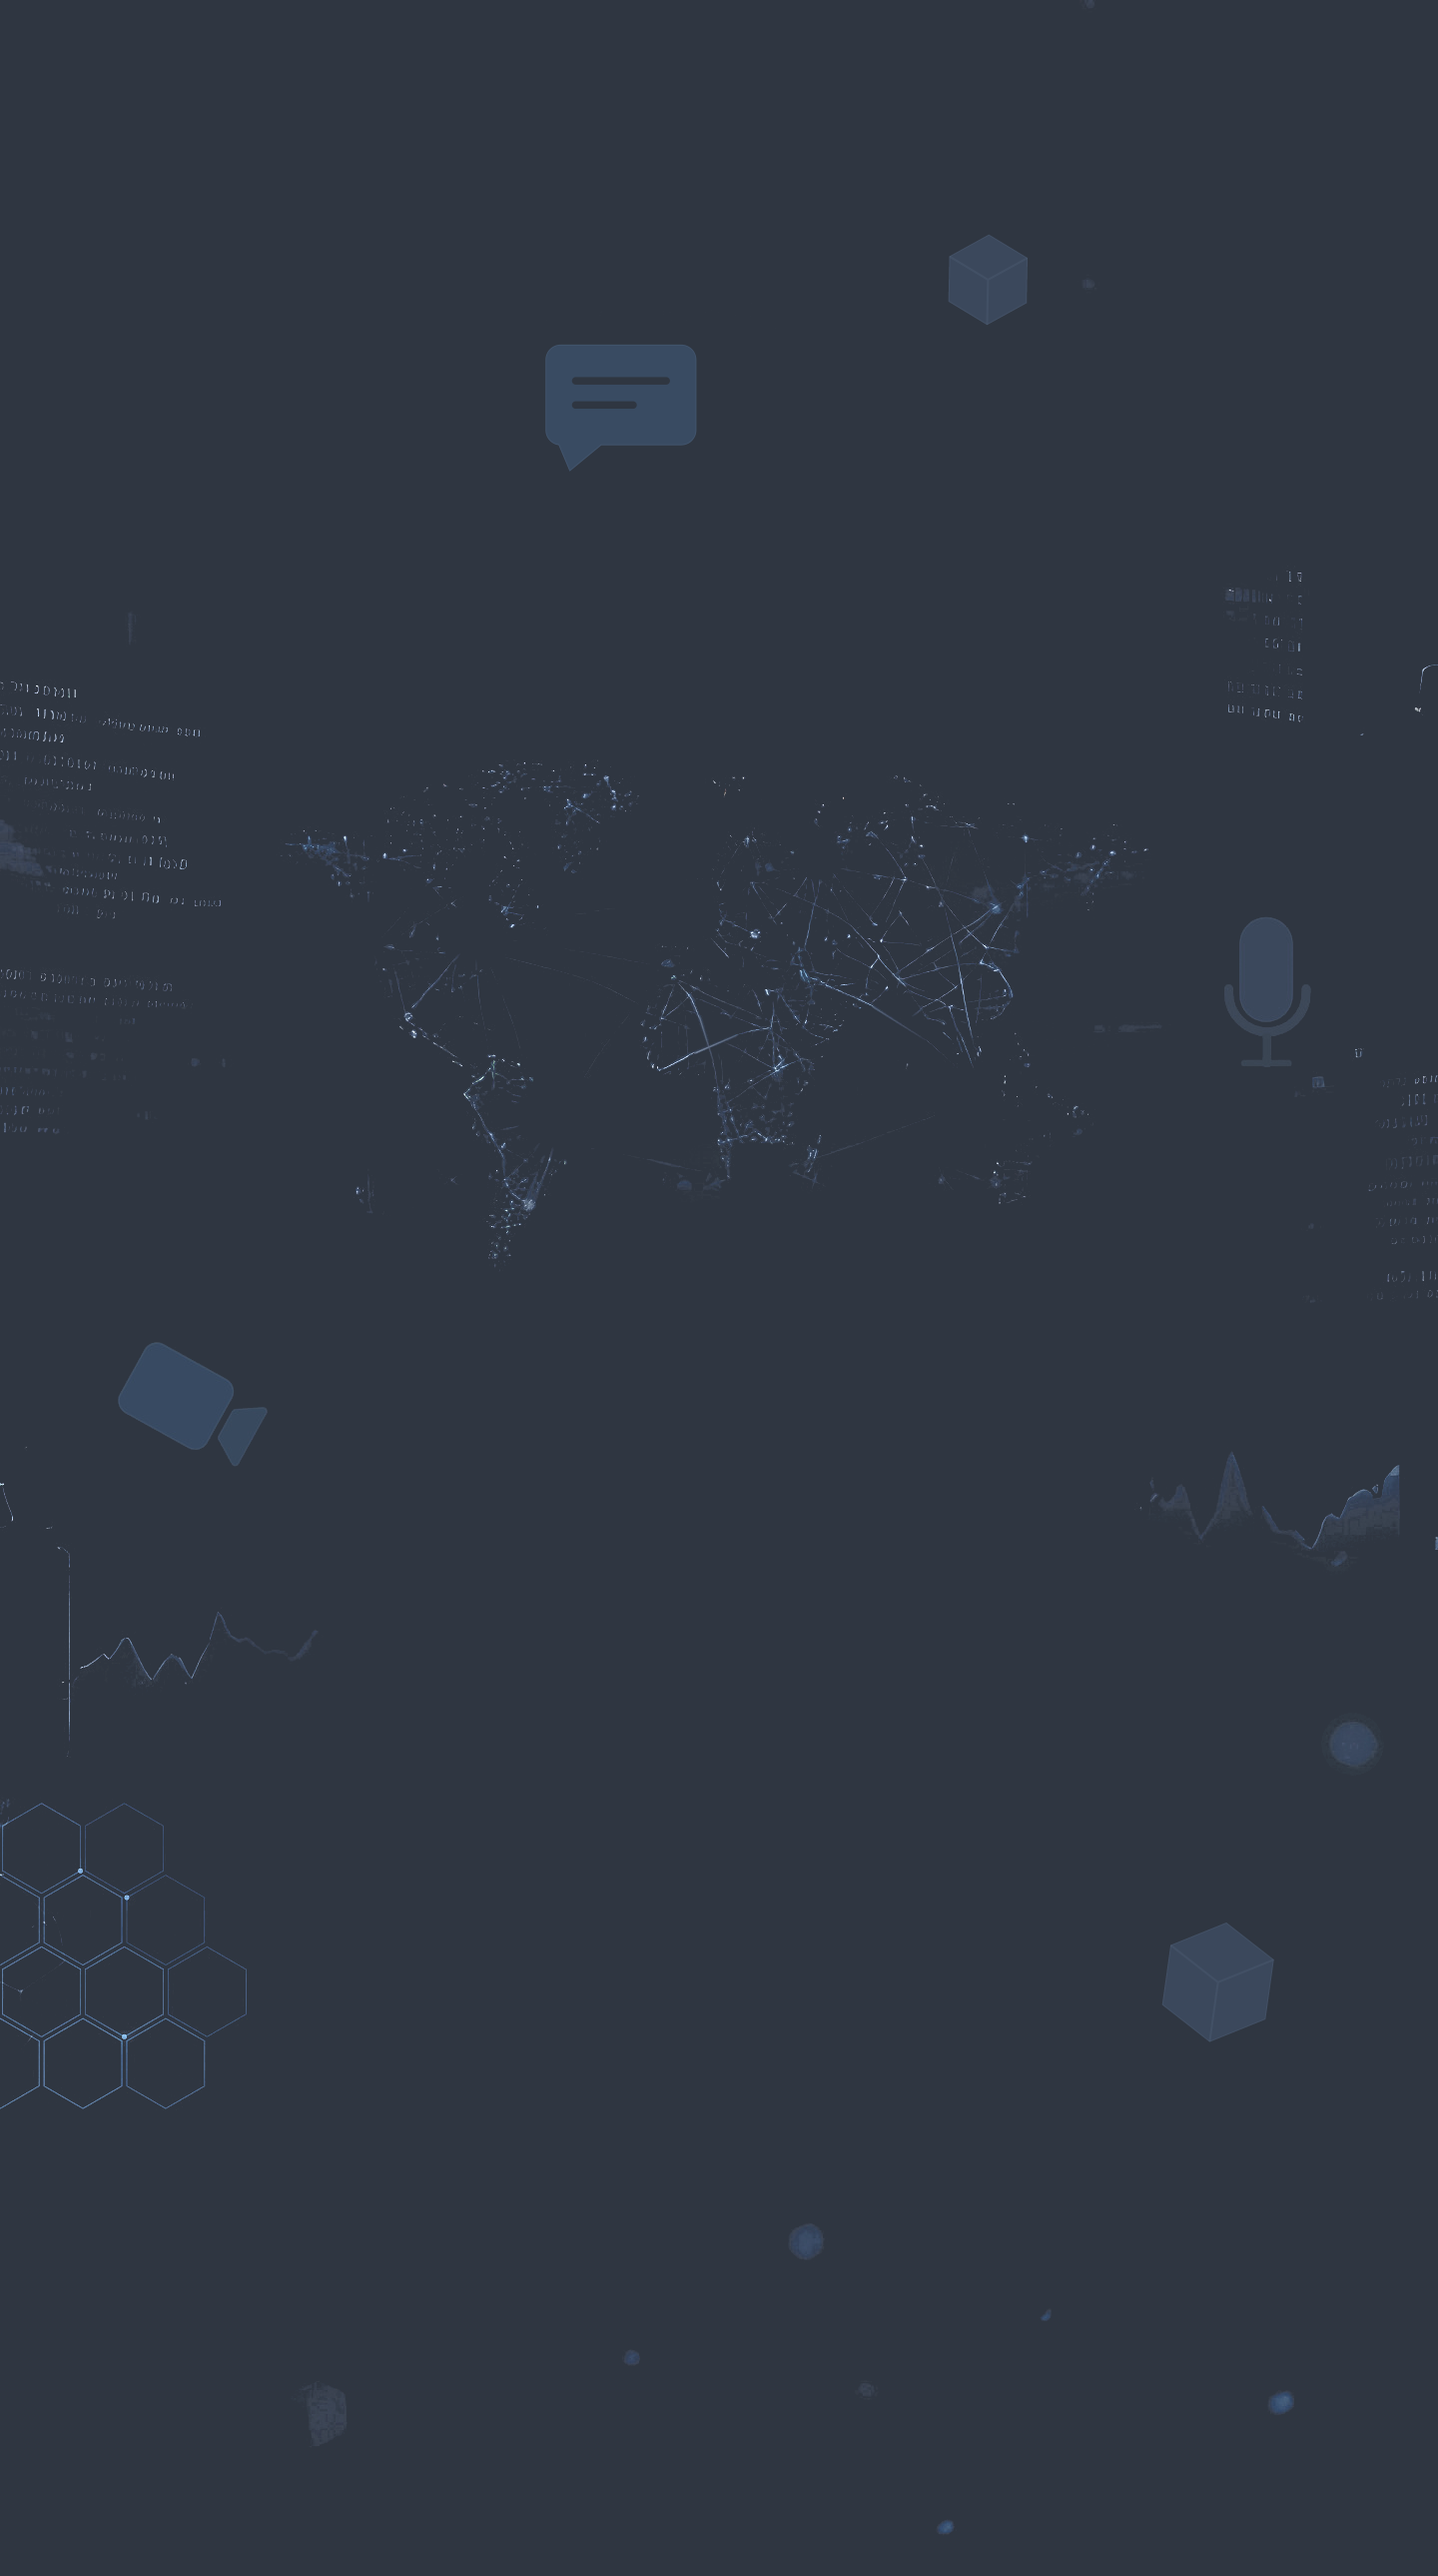
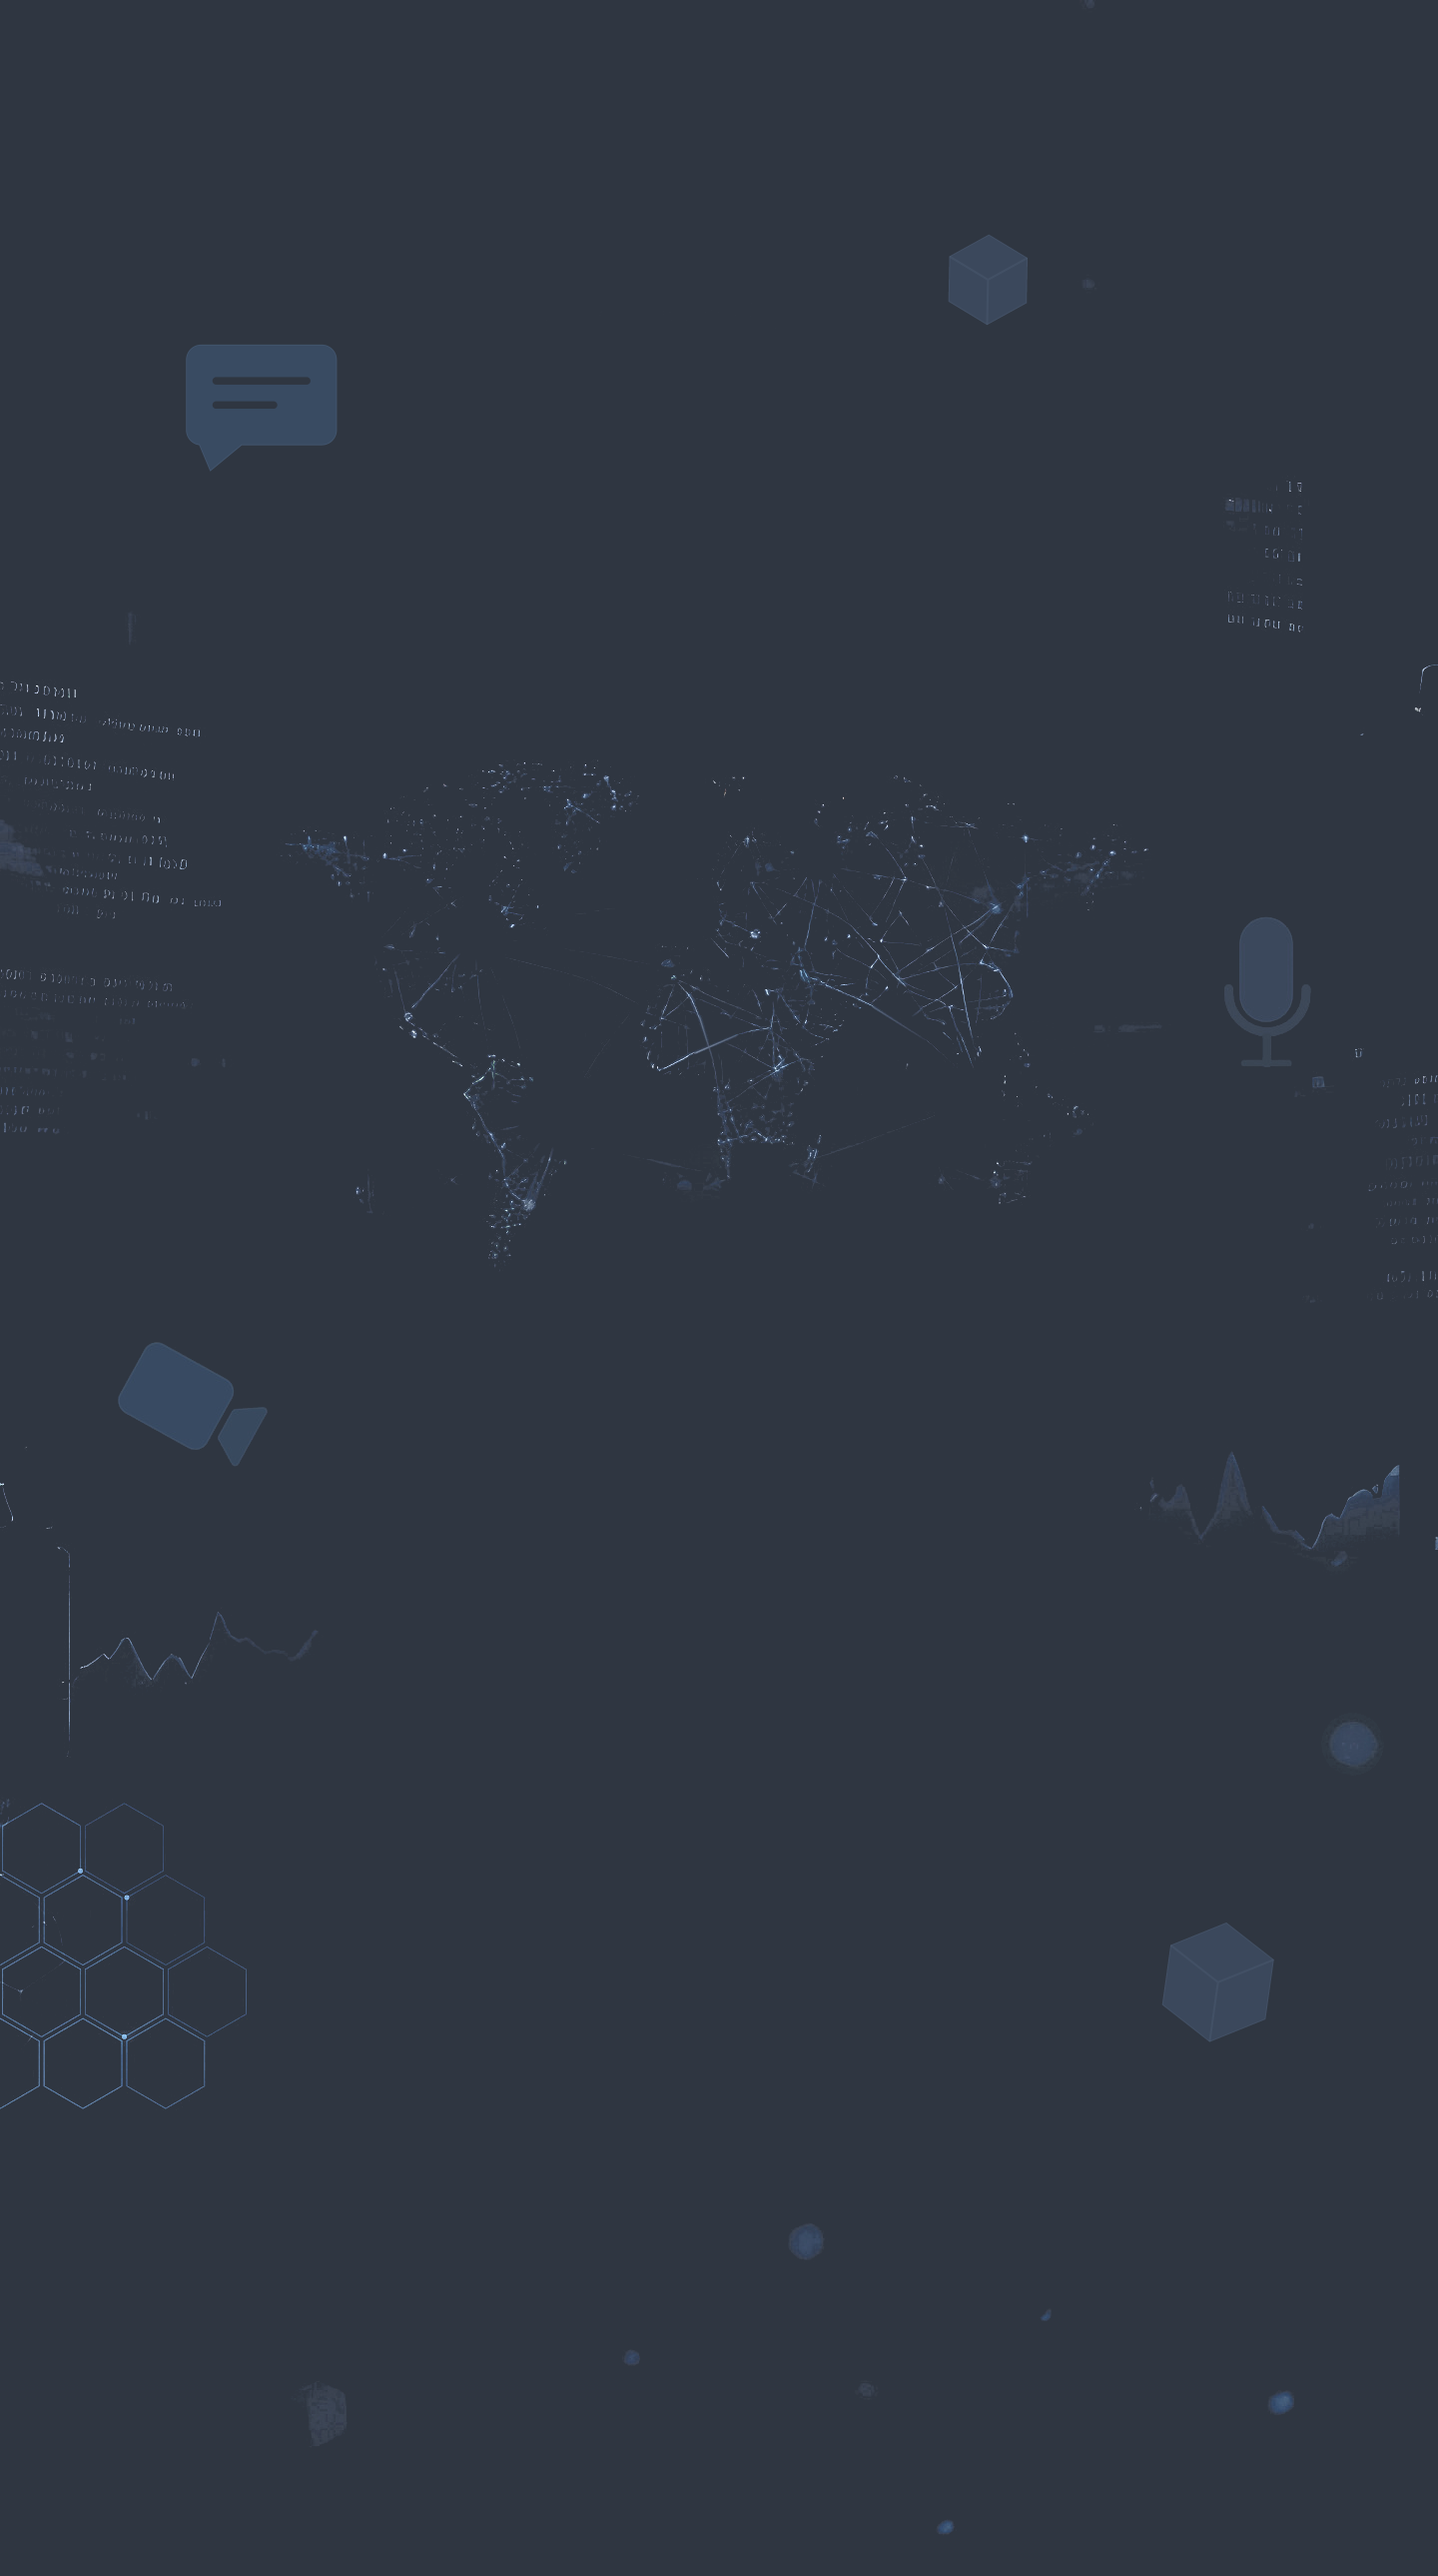
chore(android): bump build to 209 with home and chat refinements

Changed region(s): [[0.375, 0.1241, 0.5, 0.1862], [0.125, 0.1241, 0.25, 0.1862]]

diff --git a/frontend/screens/chat/useChatComposer.ts b/frontend/screens/chat/useChatComposer.ts
@@ -2,8 +2,7 @@ import type { ChatMessage } from './chatMessageTypes';
 /** Text/sticker composer send + emoji panel helpers. */
 
 import React from "react";
-import { Keyboard, Vibration } from "react-native";
-import * as Haptics from "expo-haptics";
+import { Keyboard } from "react-native";
 import type { EmojiType } from "rn-emoji-keyboard";
 import {
   clearMessageCache,
@@ -247,14 +246,6 @@ export function useChatComposer({
 
   const onPressSendButton = React.useCallback(() => {
     if (!messageTextRef.current.trim() && !voiceIsRecording) return;
-    // Запись (замок → «Отправить») вибрирует сама, когда уходит: здесь второй раз не нужно.
-    if (!voiceIsRecording) {
-      try {
-        Haptics.impactAsync(Haptics.ImpactFeedbackStyle.Light);
-      } catch {
-        Vibration.vibrate(10);
-      }
-    }
     setEmojiPanelOpen(false);
     void sendMessage();
   }, [voiceIsRecording, sendMessage]);

diff --git a/frontend/scripts/spatial-stage-style.js b/frontend/scripts/spatial-stage-style.js
@@ -8,7 +8,8 @@ module.exports = {
   UPPER_CUBE: { cx: 393, cy: 111.2, r: 18, tilt: 0.02 },
   LOWER_CUBE: { cx: 484.5, cy: 788, r: 24, brightness: 0.32 },
   // Координаты в финальной сцене 1440×2578. Правый край списка обрезает cover экрана.
-  HEADER_DIGITS: { from: [224, 600, 345, 790], to: [1200, 550] },
+  HEADER_DIGITS: { from: [224, 600, 345, 790], to: [1200, 460] },
   // Размеры и позиция — в исходных координатах 572×1024; материал как у камеры.
-  HEADER_BUBBLE: { cx: 247, cy: 157, w: 60, h: 40, radius: 6 },
+  // На 360 px финальной сцены левее исходного положения; высота прежняя.
+  HEADER_BUBBLE: { cx: 104, cy: 157, w: 60, h: 40, radius: 6 },
 };

diff --git a/frontend/src/webrtc/sessions/RandomChatSession.ts b/frontend/src/webrtc/sessions/RandomChatSession.ts
@@ -481,8 +481,8 @@ export class RandomChatSession extends SimpleEventEmitter<RandomChatSessionEvent
   }
 
   private logReconnectTrace(event: string, details: Record<string, unknown> = {}): void {
-    // Production strips info; preserve causes of teardown/recovery in release logcat.
-    const log = /disconnect_requested|room_lost|room_reconnecting|resume_rejected|connect_error/.test(event)
+    // Production strips info; preserve recovery failures while routine teardown stays informational.
+    const log = /room_lost|room_reconnecting|resume_rejected|connect_error/.test(event)
       ? logger.warn : logger.info;
     log('[RandomChatSession][ReconnectTrace]', {
       event,

diff --git a/frontend/scripts/relayout-spatial-header.js b/frontend/scripts/relayout-spatial-header.js
@@ -36,7 +36,8 @@ async function repaintBubble(image) {
   const { width, data } = image.bitmap;
   const scale = width / SOURCE_WIDTH;
   // Полностью убрать прежнее облако вместе с тенью. По краям здесь ровный фон.
-  const rect = [190, 128, 305, 211].map(v => Math.round(v * scale));
+  const rect = [Math.min(190, HEADER_BUBBLE.cx - HEADER_BUBBLE.w / 2 - 4), 128, 305, 211]
+    .map(v => Math.round(v * scale));
   fillRect(image, rect);
   const [x0, y0, x1, y1] = rect;
   const w = x1 - x0, h = y1 - y0, samples = 4;

diff --git a/frontend/scripts/generate-spatial-depth.js b/frontend/scripts/generate-spatial-depth.js
@@ -93,7 +93,7 @@ const SEEDS = [
  * между точками, слабее порога ядра (иначе на фоне оставалась их тень).
  */
 const GROUPS = [
-  { name: 'digits', rect: [1196, 540, 1330, 745], plane: PLANE.deep },
+  { name: 'digits', rect: [1196, 450, 1330, 655], plane: PLANE.deep },
   { name: 'data-left', rect: [0, 640, 240, 1160], plane: PLANE.deep },
   { name: 'data-right', rect: [1170, 1020, 1440, 1340], plane: PLANE.deep },
   { name: 'chart-right', rect: [1060, 1430, 1440, 1600], plane: PLANE.deep },
